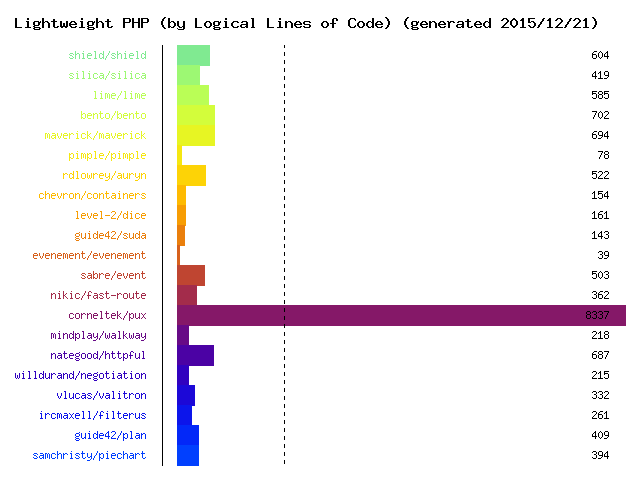
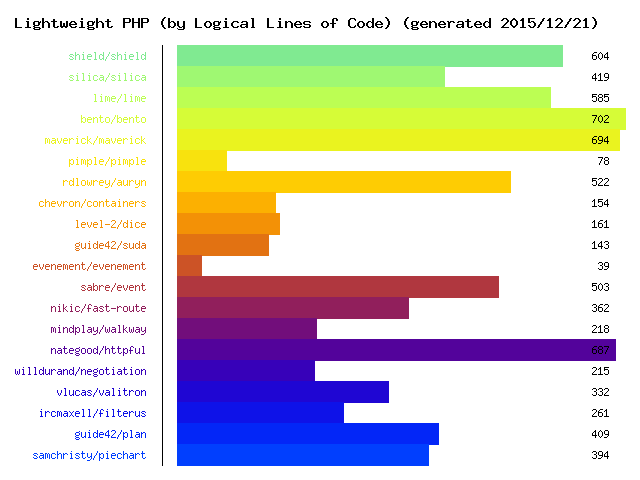
Remove corneltek/pux

diff --git a/README.md b/README.md
@@ -39,7 +39,6 @@ List of lightweight PHP libraries.
 ## Routing
 
 * [FastRoute](https://github.com/nikic/FastRoute) - Fast request router for PHP
-* [Pux](https://github.com/c9s/Pux) - A high performance PHP router
 * [Walkway](https://github.com/mindplay-dk/walkway) - Elegant, modular router for PHP.
 
 ## HTTP
